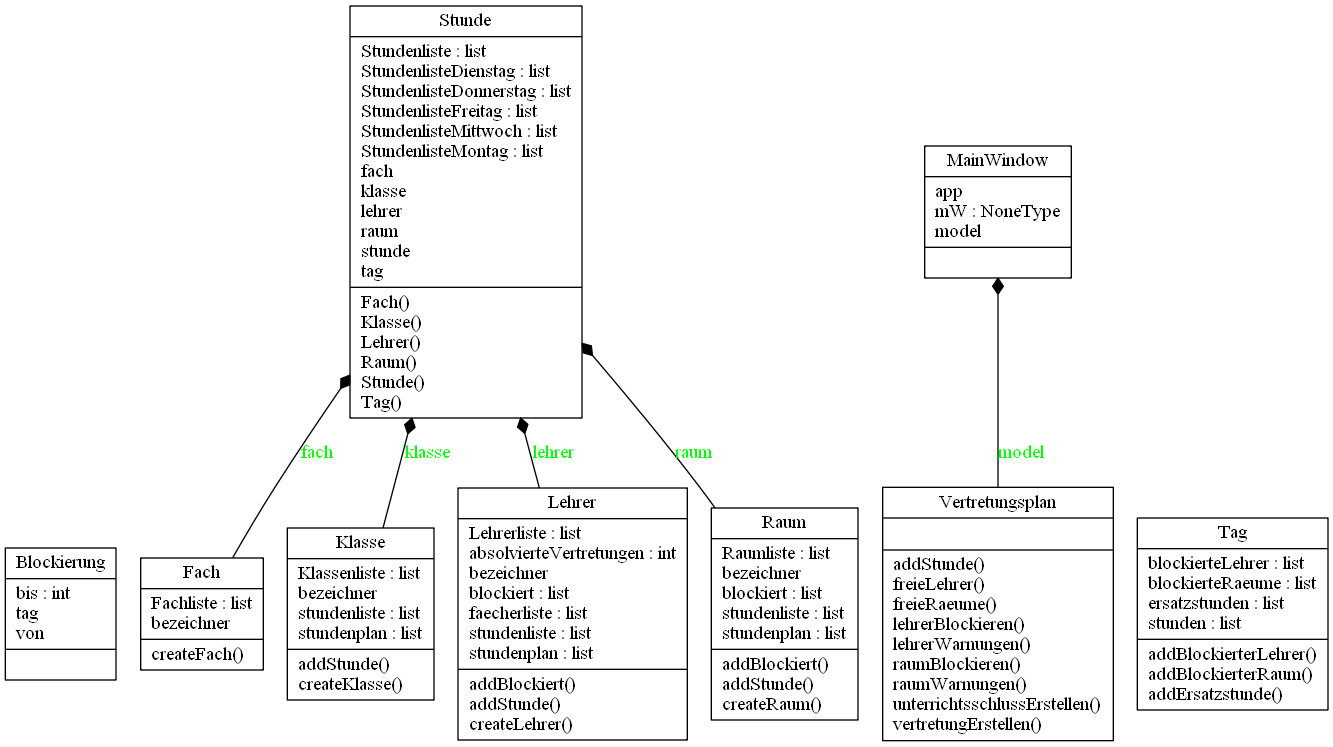
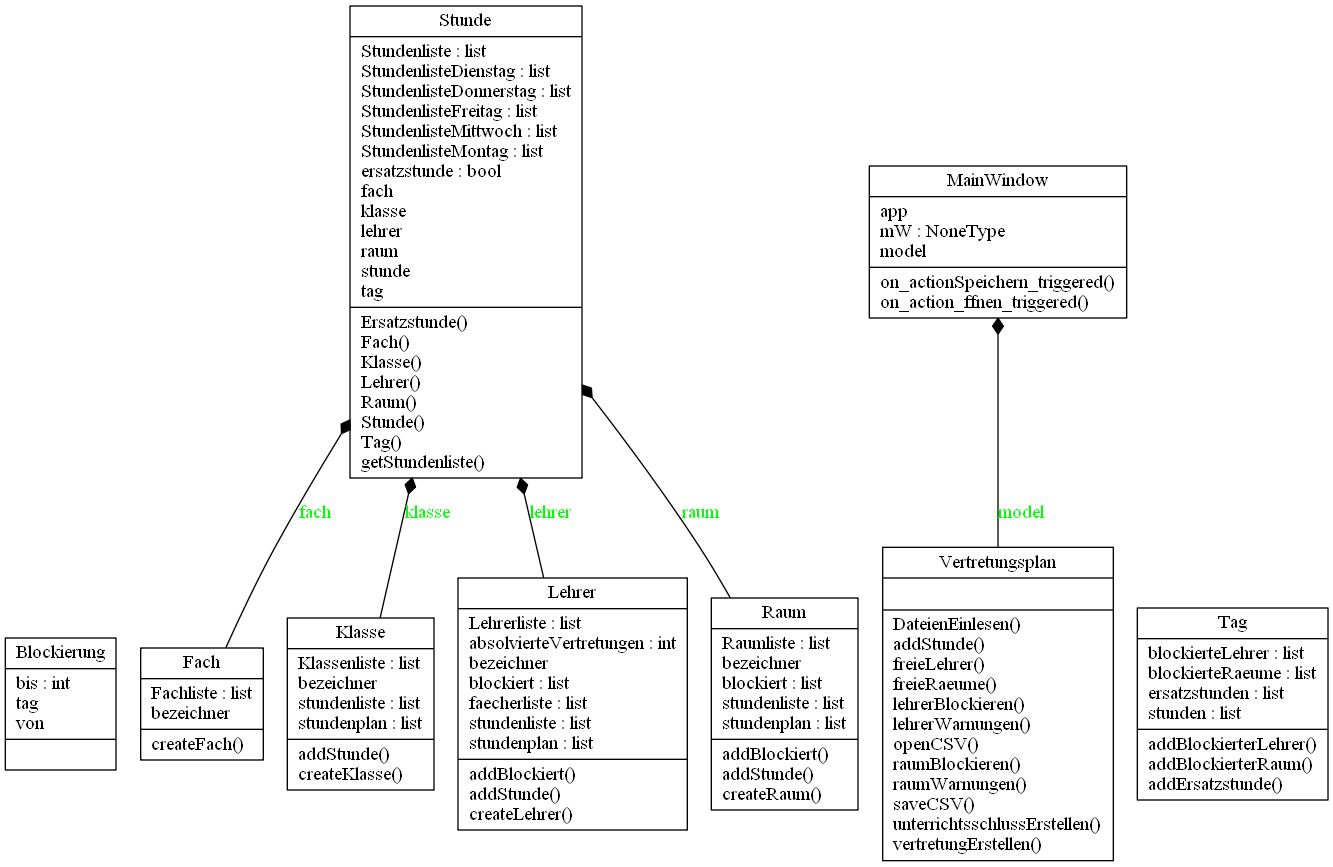
Speichern und oeffnen CSV files - does not work!

diff --git a/classes.py b/classes.py
@@ -14,6 +14,7 @@ class Stunde:
     StundenlisteMittwoch = []
     StundenlisteDonnerstag = []
     StundenlisteFreitag = []
+    Ersatzstundenliste = []
 
     #--------------------------------------------------
         # attributes:
@@ -24,15 +25,17 @@ class Stunde:
         #   tag (int): 0 = Montag,..., 4 = Freitag
         #   stunde (int): 0 = 1.Stunde, 1 = 2.Stunde,..., 6 = 7.Stunde (Mittagspause),...,10 = 11.Stunde
     #--------------------------------------------------
-    def __init__(self,tag:int,stunde:int,klasse:str,lehrer:str,raum:str,fach:str,ersatzstunde=False):
+    def __init__(self,tag:int,stunde:int,klasse:str,lehrer:str,raum:str,fach:str,ersatzstunde=False,datum=None):
         self.tag = tag
         self.stunde = stunde
         self.klasse = Klasse.createKlasse(klasse,self)
         self.raum = Raum.createRaum(raum,self)
         self.lehrer = Lehrer.createLehrer(lehrer,self)
+        print("Hi")
         self.fach = Fach.createFach(fach)
         #self.wochentyp = woche # A-week/B-week
         self.ersatzstunde = ersatzstunde
+        self.datum = datum
 
         if not ersatzstunde:
             Stunde.Stundenliste.append(self)
@@ -46,10 +49,14 @@ class Stunde:
                 Stunde.StundenlisteDonnerstag.append(self)
             elif self.tag == 4:
                 Stunde.StundenlisteFreitag.append(self)
+        
+        if ersatzstunde and datum != None:
+            Stunde.Ersatzstundenliste.append(self)
+            Stunde.Ersatzstundenliste.sort(key = lambda c: c.datum)
 
 
     def __str__(self):
-        s = self.Tag() + "," + self.Stunde() + "," + self.Klasse() + "," + self.Lehrer() + "," + self.Raum() + "," + self.Fach()
+        s = self.tag + "," + self.stunde + "," + self.klasse + "," + self.lehrer + "," + self.raum + "," + self.fach
         return s
 
 
@@ -67,6 +74,8 @@ class Stunde:
         return self.fach
     def Ersatzstunde(self):
         return self.ersatzstunde
+    def Datum(self):
+        return self.datum
 
     @staticmethod
     def getStundenliste():
@@ -112,6 +121,10 @@ class Klasse:
     def addStunde(self,stunde):
         self.stundenliste.append(stunde)
         self.stundenplan = Tools.sortStundenliste(self.stundenliste)
+    
+
+    def Bezeichner(self):
+        return self.bezeichner
 #--------------------------------------------------
 #--------------------------------------------------
 
@@ -157,6 +170,10 @@ class Raum:
     
     def addBlockiert(self,tag,von,bis):
         self.blockiert.append(Blockierung(self,tag,von,bis))
+    
+
+    def Bezeichner(self):
+        return self.bezeichner
 #--------------------------------------------------
 #--------------------------------------------------
 
@@ -208,6 +225,10 @@ class Lehrer:
     
     def addBlockiert(self,tag,von,bis):
         self.blockiert.append(Blockierung(self,tag,von,bis))
+    
+
+    def Bezeichner(self):
+        return self.bezeichner
 #--------------------------------------------------
 #--------------------------------------------------
 
@@ -237,6 +258,10 @@ class Fach:
     
     
     def __str__(self):
+        return self.bezeichner
+    
+
+    def Bezeichner(self):
         return self.bezeichner
 #--------------------------------------------------
 #--------------------------------------------------

diff --git a/model.py b/model.py
@@ -36,7 +36,7 @@ class Vertretungsplan:
         # vertretungErstellen(0,0,ersatzraum=xy)
         # vertretungErstellen(0,0,ersatzlehrer=xy)
     #--------------------------------------------------
-    def vertretungErstellen(self,tag:Tag,stunde:Stunde,ersatzraum=0,ersatzlehrer=0):
+    def vertretungErstellen(self,datum:Tag,stunde:Stunde,ersatzraum=0,ersatzlehrer=0):
         if ersatzraum != 0:
             raum = ersatzraum
         else:
@@ -46,8 +46,8 @@ class Vertretungsplan:
             lehrer = ersatzlehrer
         else:
             lehrer = stunde.Lehrer()
-        ersatzStunde = Stunde(stunde.Klasse(),raum,lehrer,stunde.Fach(),stunde.Tag(),stunde.Stunde(),ersatzstunde=True)
-        tag.addErsatzstunde(ersatzStunde)
+        ersatzStunde = Stunde(stunde.Tag(),stunde.Stunde(),stunde.Klasse().Bezeichner(),lehrer.Bezeichner(),raum.Bezeichner(),stunde.Fach().Bezeichner(),ersatzstunde=True,datum=datum)
+        datum.addErsatzstunde(ersatzStunde)
 
     def DateienEinlesen(self, pathUnter:str, pathZuordnung:str):
         dateiUnter = open(pathUnter, "r")
@@ -82,11 +82,12 @@ class Vertretungsplan:
         for tag in stundenplan:
             for stunde in tag:
                 if stunde.Ersatzstunde():
-                    s = stunde.Tag() + stunde.Stunde() + stunde.Klasse() + stunde.Lehrer() + stunde.Raum() + stunde.Fach() + "\n"
+                    s = stunde.Datum() + stunde.Tag() + stunde.Stunde() + stunde.Klasse() + stunde.Lehrer() + stunde.Raum() + stunde.Fach() + "\n"
                     outputVertretung += s
                 else:
                     s = stunde.Tag() + stunde.Stunde() + stunde.Klasse() + stunde.Lehrer() + stunde.Raum() + stunde.Fach() + "\n"
                     outputStandard += s
+
         
         file = open(path,"w")
         file.write("[Stundenplan]\n")
@@ -97,4 +98,37 @@ class Vertretungsplan:
         
  
     def openCSV(self, path):
-        pass
+        file = open(path,"r")
+        #content = file.readlines()
+        content = file.read().splitlines() 
+
+        # remove newlines from content
+        # i = 0
+        # while i < len(content):
+        #     content[i].replace("\n","")
+        #     i += 1
+
+        # remove empty lines
+        # while "" in content:
+        #     content.remove("")
+
+        # remove section-header [Stundenplan] & csv-header
+        if content[0] == "[Stundenplan]":
+            content.pop(0)
+            content.pop(0)
+
+        # read content until header [Vertretungen]
+        while content[0] != "[Vertretungen]":
+            line = content.pop(0).split(",")
+            #line[len(line)-1].replace("\n","")
+            Stunde(int(line[0]),int(line[1]),line[2],line[3],line[4],line[5])
+
+        # remove section-header [Vertretungen] & csv-header
+        if content[0] == "[Stundenplan]":
+            content.pop(0)
+            content.pop(0)
+        
+        # read content until file's empty
+        while len(content) > 0:
+            line = content.pop(0).split(",")
+            Stunde(int(line[1]),int(line[2]),line[3],line[4],line[5],line[6],ersatzstunde=True,datum=line[0])

diff --git a/mainView.py b/mainView.py
@@ -20,15 +20,23 @@ class MainWindow:
         #Bsp.: self.mW.pushButton.clicked.connect(self.test)
         self.mW.actionSpeichern.triggered.connect(self.on_actionSpeichern_triggered)
         self.mW.action_ffnen.triggered.connect(self.on_action_ffnen_triggered)
+        self.mW.actionEinlesen.triggered.connect(self.on_actionEinlesen_triggered)
 
         #launch GUI --> last step of __init__ because starts loop
         self.mW.show()
-        sys.exit(self.app.exec())
+        self.app.exec()
     
     def on_actionSpeichern_triggered(self):
-        path = QtWidgets.QFileDialog.getSaveFileName(None,"Speichern unter","","CSV Files (*.csv);;All Files (*)")[0]
+        #path = QtWidgets.QFileDialog.getSaveFileName(None,"Speichern unter","","CSV Files (*.csv);;All Files (*)")[0]
+        path = 'C:/Users/Admin/Desktop/Vertretungsplan/InformatikVertretungsplan/Testdateien/CSVExports/test1.csv'
         self.model.saveCSV(path)
     
     def on_action_ffnen_triggered(self):
-        path = QtWidgets.QFileDialog().getOpenFileName(None,"Datei oeffnen","","CSV Files (*.csv);;All Files (*)")[0]
+        #path = QtWidgets.QFileDialog().getOpenFileName(None,"Datei oeffnen","","CSV Files (*.csv);;All Files (*)")[0]
+        path = 'C:/Users/Admin/Desktop/Vertretungsplan/InformatikVertretungsplan/Testdateien/CSVExports/test1.csv'
         self.model.openCSV(path)
+
+    def on_actionEinlesen_triggered(self):
+        pathUnter = QtWidgets.QFileDialog().getOpenFileName(None,"Datei Unter einlesen","","All Files (*)")[0]
+        pathZuordnung = QtWidgets.QFileDialog().getOpenFileName(None,"Datei Zuordnung einlesen","","All Files (*)")[0]
+        self.model.DateienEinlesen(pathUnter,pathZuordnung)

diff --git a/test.py b/test.py
@@ -1,0 +1,21 @@
+import classes
+
+s = classes.Stunde(0,0,"5a","L1","AE05","M")
+print(s)
+
+
+
+Exception has occurred: AttributeError
+'Stunde' object has no attribute 'fach'
+  File "C:\Users\Admin\Desktop\Vertretungsplan\InformatikVertretungsplan\classes.py", line 74, in Fach
+    return self.fach
+  File "C:\Users\Admin\Desktop\Vertretungsplan\InformatikVertretungsplan\classes.py", line 223, in addStunde
+    if stunde.Fach() not in self.faecherliste:
+  File "C:\Users\Admin\Desktop\Vertretungsplan\InformatikVertretungsplan\classes.py", line 210, in __init__
+    self.addStunde(stunde)
+  File "C:\Users\Admin\Desktop\Vertretungsplan\InformatikVertretungsplan\classes.py", line 193, in createLehrer
+    return Lehrer(bezeichner,stunde)
+  File "C:\Users\Admin\Desktop\Vertretungsplan\InformatikVertretungsplan\classes.py", line 33, in __init__
+    self.lehrer = Lehrer.createLehrer(lehrer,self)
+  File "C:\Users\Admin\Desktop\Vertretungsplan\InformatikVertretungsplan\test.py", line 3, in <module>
+    s = classes.Stunde(0,0,"5a","L1","AE05","M")

diff --git a/tools.py b/tools.py
@@ -7,7 +7,7 @@ class Tools:
     # return 2-dimensional list --> sortet week-list consists of day-lists consists of sortet lessons
     def sortStundenliste(stundenliste:list):
         returnList = [[],[],[],[],[]]
-        stundenliste.sort(key=lambda c: c.getStunde()) #sort stundenliste by lessonnumber on that day
+        stundenliste.sort(key=lambda c: c.Stunde()) #sort stundenliste by lessonnumber on that day
         for stunde in stundenliste:
             returnList[stunde.Tag()].append(stunde)
         return returnList
